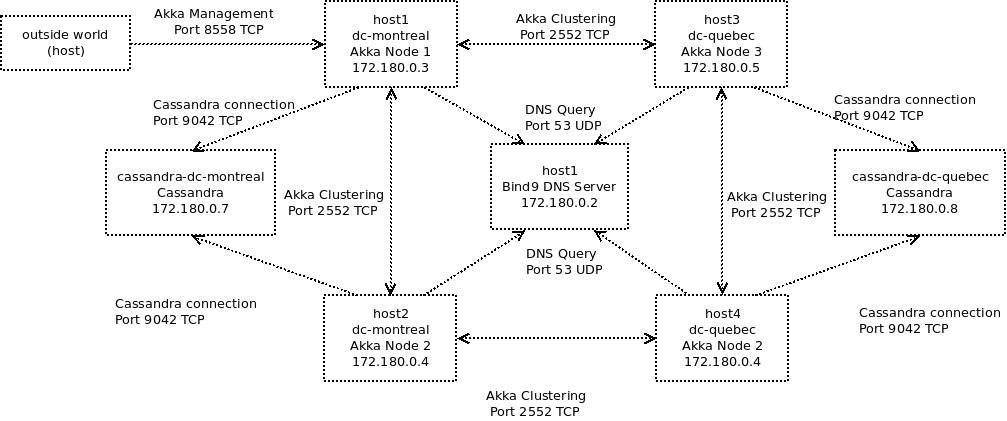
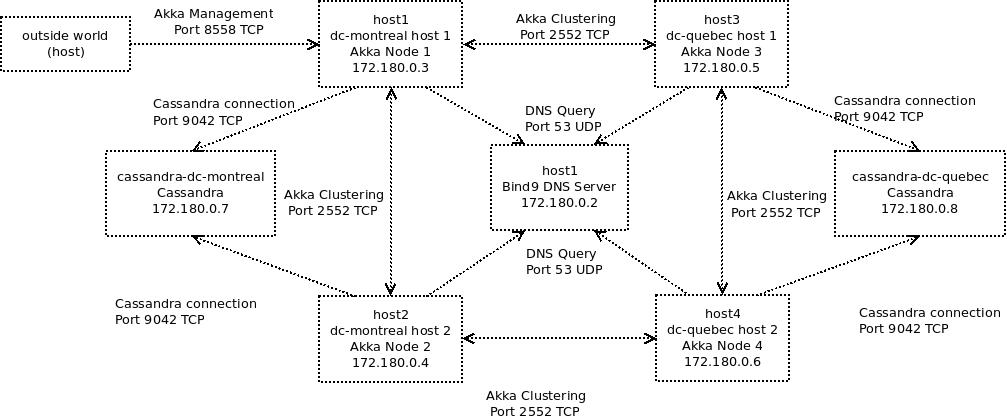
Updated readme, updated diagram.

diff --git a/README.md b/README.md
@@ -17,6 +17,18 @@ This project is running 5 dockers containers, 2 Akka nodes forming a cluster, 1 
 
 Part of the cluster, namely the Entity is using Akka-Typed which at the time this page was written, was a work in progress at Lightbend. Akka-Typed is the next version of Akka using Typed actors.
 
+## Endpoints
+
+All request are sent to 172.180.0.{3~6} on port 9000. Curl samples are located in the curls folder.
+
+| Path          | Method   | Payload  | Response | Description |
+| ------------- | :------: | -------- | -------- | ----------- |
+| /api/accounts | POST     | ```{"username": "username", "password": "dff3f5gg2c", "nickname": "nickname"}```    | N/A | Creates an account. |
+| /api/state    | GET      |   N/A    | ```{"accounts":{"username":{"id":"c35ce21e-263b-4c7f-bdc9-aaaabc7c0026","username":"username","password":"sha1:64000:18:1Ty0gYo6lnamdN+twPQYKlY3UNuK1fd0:5xH7HicqEyyde+IFO5AKCrLn","nickname":"nickname"}},"pings":[{"timestamp":1550355741573,"ip":"172.180.0.1"}]}``` | Fetch the current state of the AccountEntity. |
+| /api/sessions | POST     |    ```{"username": "username", "password": "dff3f5gg2c"}```    | N/A | Set a cookie session. |
+| /api/ping     | GET      |    N/A    | ```{"timestamp":1550355741573,"pong":"PONG","entityId":"accounts"}``` | Sends a ping to the target host. |
+
+
 ## Usage
 
 Simply invoke `docker-compose up` to start the cluster and wait for the cluster to come up:
